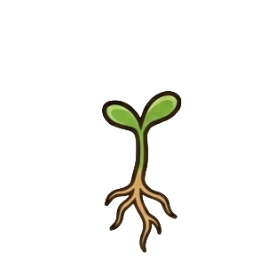
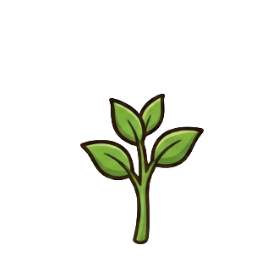
Added flower illustration for phrases mastery

Changed region(s): [[0.2857, 0.3143, 0.7429, 0.9143]]

diff --git a/components/FlashcardPhrase.tsx b/components/FlashcardPhrase.tsx
@@ -3,7 +3,7 @@ import { audioMap } from '@/utils/audioMap';
 import { Ionicons } from '@expo/vector-icons';
 import { setAudioModeAsync, useAudioPlayer, useAudioPlayerStatus } from 'expo-audio';
 import React, { useEffect, useState } from 'react';
-import { ActivityIndicator, Text, View } from 'react-native';
+import { ActivityIndicator, Image, Text, View } from 'react-native';
 import { Colors } from '@/constants/theme';
 import { PhraseItem, PhraseMemory } from '../types';
 import { normalizeForComparison, processGeorgianSentence, removePunctuation } from '../utils/georgian-text-utils';
@@ -22,6 +22,13 @@ interface WordObj {
   word: string;
   disabled: boolean;
 }
+
+const flowerImages = {
+  0: require('../public/images/flower-0.png'),
+  1: require('../public/images/flower-1.png'),
+  2: require('../public/images/flower-2.png'),
+  3: require('../public/images/flower-3.png'),
+};
 
 const FlashcardPhrase: React.FC<FlashcardPhraseProps> = ({ 
   phrase, 
@@ -124,18 +131,23 @@ const FlashcardPhrase: React.FC<FlashcardPhraseProps> = ({
 
   return (
     <View className="flex-1 w-full bg-card rounded-3xl p-6 border-2 border-border mx-2 my-4">
-        {/* Memory Dots */}
-        <View className="flex-row items-center mb-6 justify-between bg-muted p-3 rounded-xl border border-border">
-            <View className="flex-row gap-2">
-                {[...Array(3)].map((_, i) => (
-                    <View 
-                        key={i} 
-                        className={`w-4 h-4 rounded-full ${i < memory.correctAnswers ? 'bg-success' : 'bg-muted-foreground/30'}`}
-                    />
-                ))}
-            </View>
-            <Text className="text-muted-foreground text-sm font-semibold">{memory.correctAnswers}/3 mastery</Text>
+        {/* Mastery Flower */}
+        <View className='flex justify-end'>
+          <Image
+            source={flowerImages[Math.min(memory.correctAnswers, 3) as 0 | 1 | 2 | 3]}
+            style={{ width: 60, height: 60 }}
+            resizeMode="contain"
+            className='ml-auto'
+          />
         </View>
+        {/* <View className="flex-row items-center mb-6 justify-between bg-muted p-3 rounded-xl border border-border">
+            <Image
+                source={flowerImages[Math.min(memory.correctAnswers, 3) as 0 | 1 | 2 | 3]}
+                style={{ width: 40, height: 40 }}
+                resizeMode="contain"
+            />
+            <Text className="text-muted-foreground text-sm font-semibold">{memory.correctAnswers}/3 mastery</Text>
+        </View> */}
 
         <View className="mb-6 flex-1 justify-center">
             <Text className="text-3xl font-bold text-foreground leading-tight text-center">{phrase.english}</Text>
